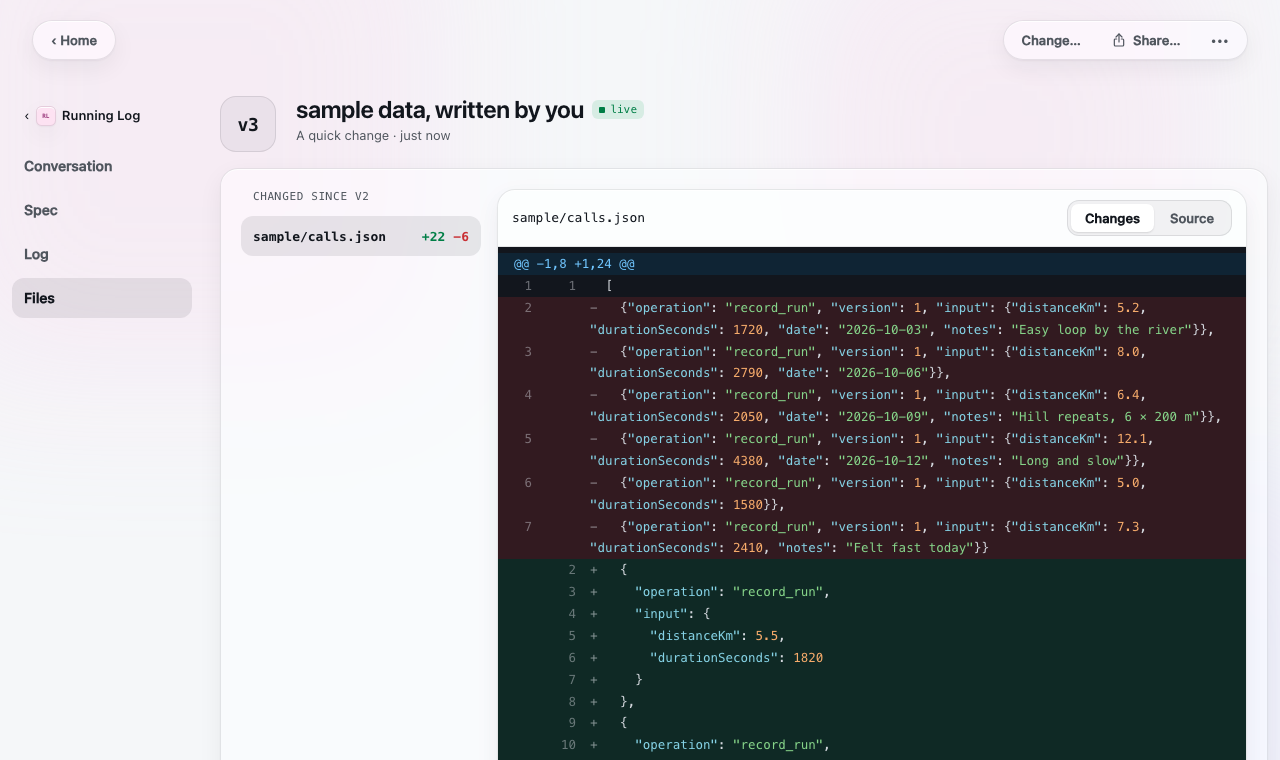
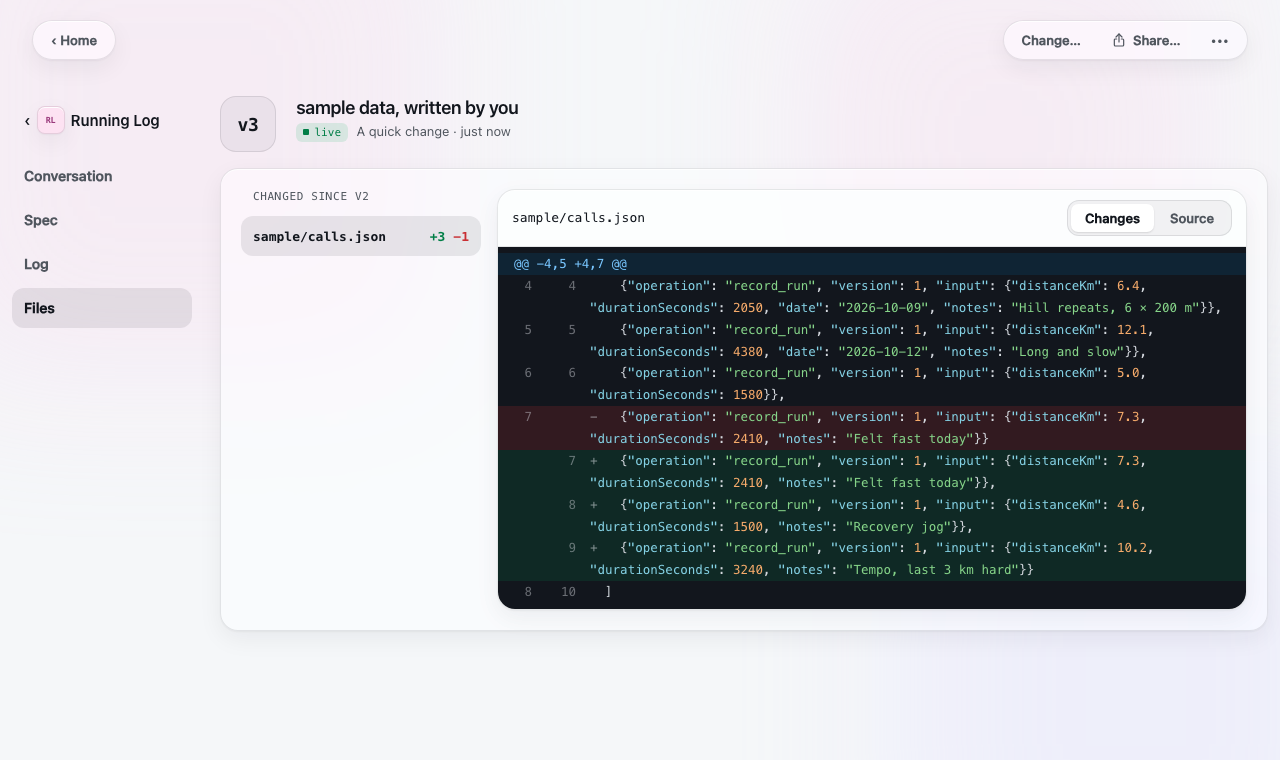
Docs screenshots: all seven Hub cards, the seed's sample data with two more runs
docs-shots appends two runs to the Running Log seed's six sample calls
(through post, checked to go live) instead of replacing them, so Share…
counts eight and the version's Files shows an addition. The Hub shot is as
tall as its cards, and the sheets are measured at the size they're shot at.
Taken again: the Hub, Share…, installing Plant Log from Hub (now with what it
keeps and where data goes) and the version's Files.

diff --git a/test/e2e/docs-shots.ts b/test/e2e/docs-shots.ts
@@ -1,7 +1,7 @@
 // SPDX-License-Identifier: AGPL-3.0-or-later
 // The docs screenshots that the UI changes touch, from a test host with a stub builder and intake:
 // PLAYWRIGHT_NODE_MODULES=<playwright-core dir> node test/e2e/docs-shots.ts → /tmp/shots/*.png, then copy into docs/images/.
-import { cpSync, mkdtempSync, rmSync, writeFileSync, mkdirSync } from "node:fs";
+import { cpSync, mkdtempSync, readFileSync, rmSync, writeFileSync, mkdirSync } from "node:fs";
 import { createRequire } from "node:module";
 import { tmpdir } from "node:os";
 import { join } from "node:path";
@@ -191,17 +191,28 @@ try {
   });
   await shot("build-failed", { width: 1280, height: 1000, clip: { x: card.x - 20, y: card.y - 20, width: card.width + 40, height: card.height + 40 } });
 
-  // 6. The Hub: Hewn's own tools.
+  // 6. The Hub: Hewn's own tools, every card in the shot.
   await page.setViewportSize({ width: 1280, height: 1000 });
   await page.goto(`${web}/#/hub`);
   await page.locator(".hub-card").first().waitFor();
   await page.waitForTimeout(800);
-  await shot("hub", { width: 1280, height: 1000 });
+  const hubH = await page.evaluate(() => Math.ceil(Math.max(...[...document.querySelectorAll(".hub-card")].map((el) => el.getBoundingClientRect().bottom + window.scrollY)) + 40));
+  await shot("hub", { width: 1280, height: Math.max(hubH, 800) });
 
-  // 7. Share…: Running Log with sample data, written by hand (a new version, v3).
-  const sample = JSON.stringify([1, 2, 3].map((n) => ({ operation: "record_run", input: { distanceKm: 4 + n * 1.5, durationSeconds: 1400 + n * 420, notes: n === 2 ? "Hill repeats" : undefined } })), null, 2);
-  const sb = await page.evaluate(async (text: string) => (await fetch("/api/capabilities/running-log/sample", { method: "POST", headers: { "x-hewn-ui": "1", "content-type": "application/json" }, body: JSON.stringify({ text }) })).json(), sample);
-  await settle(sb.buildId);
+  // 7. Share…: Running Log with two more runs in its sample data, written by hand (a new version, v3).
+  const seedSample = readFileSync(join(SEED, "sample/calls.json"), "utf8").trimEnd();
+  const more = [
+    { operation: "record_run", version: 1, input: { distanceKm: 4.6, durationSeconds: 1500, notes: "Recovery jog" } },
+    { operation: "record_run", version: 1, input: { distanceKm: 10.2, durationSeconds: 3240, notes: "Tempo, last 3 km hard" } },
+  ];
+  // Written the way the seed's lines are: one call per line, a space after each colon and comma.
+  const line = (c: unknown) => JSON.stringify(c).replace(/":/g, '": ').replace(/,"/g, ', "');
+  const sample = `${seedSample.replace(/\s*\]$/, "")},\n${more.map((c) => `  ${line(c)}`).join(",\n")}\n]\n`;
+  const sb = await post("/capabilities/running-log/sample", { text: sample });
+  const sampled = await settle(sb.buildId);
+  if (sampled.status !== "promoted") throw new Error(`the sample data didn't go live: ${sampled.status} ${sampled.failure?.title ?? ""} ${sampled.failure?.detail ?? ""}`);
+  // The sheets are measured at the size they're shot at (a centred dialog moves when the window does).
+  await page.setViewportSize({ width: 1280, height: 1000 });
   await page.goto(`${web}/#/c/running-log`);
   await page.locator(".info-section").first().waitFor();
   await page.getByRole("button", { name: "Share…" }).click();
